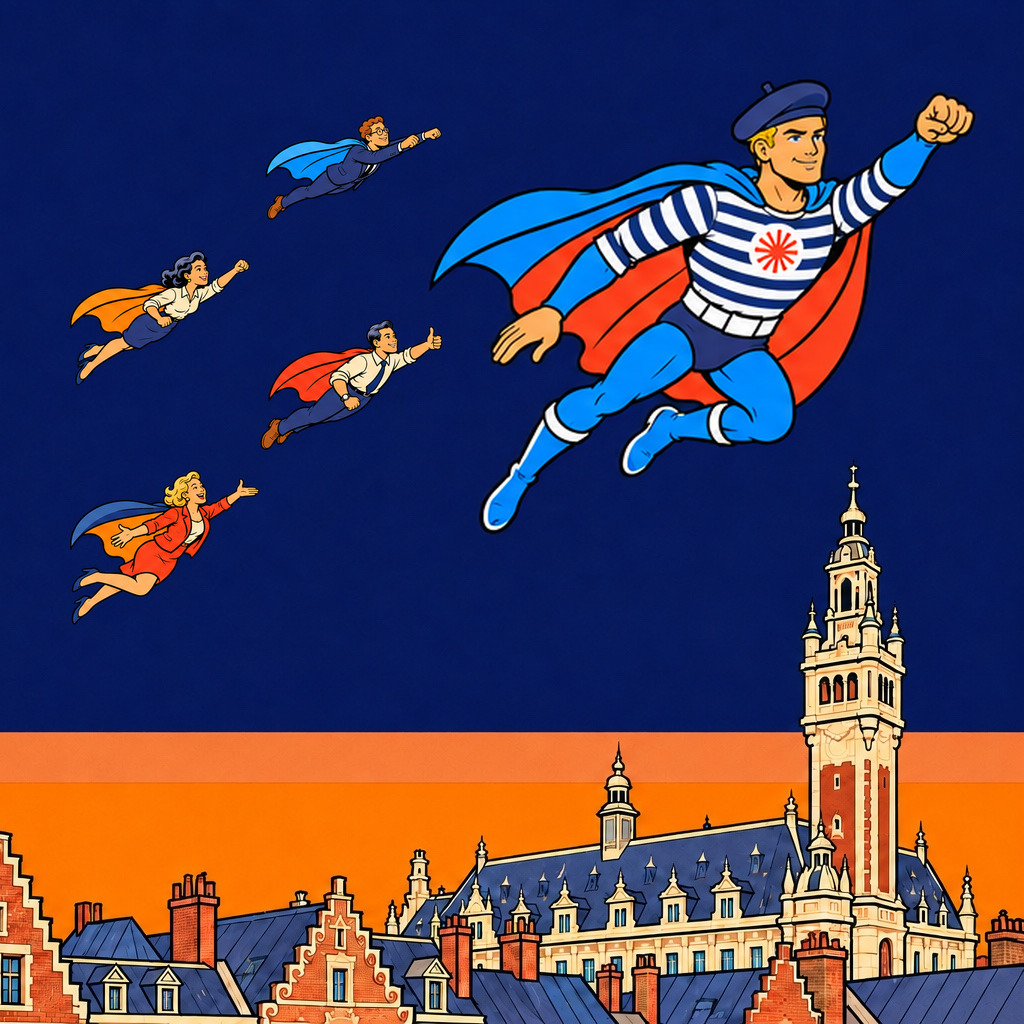
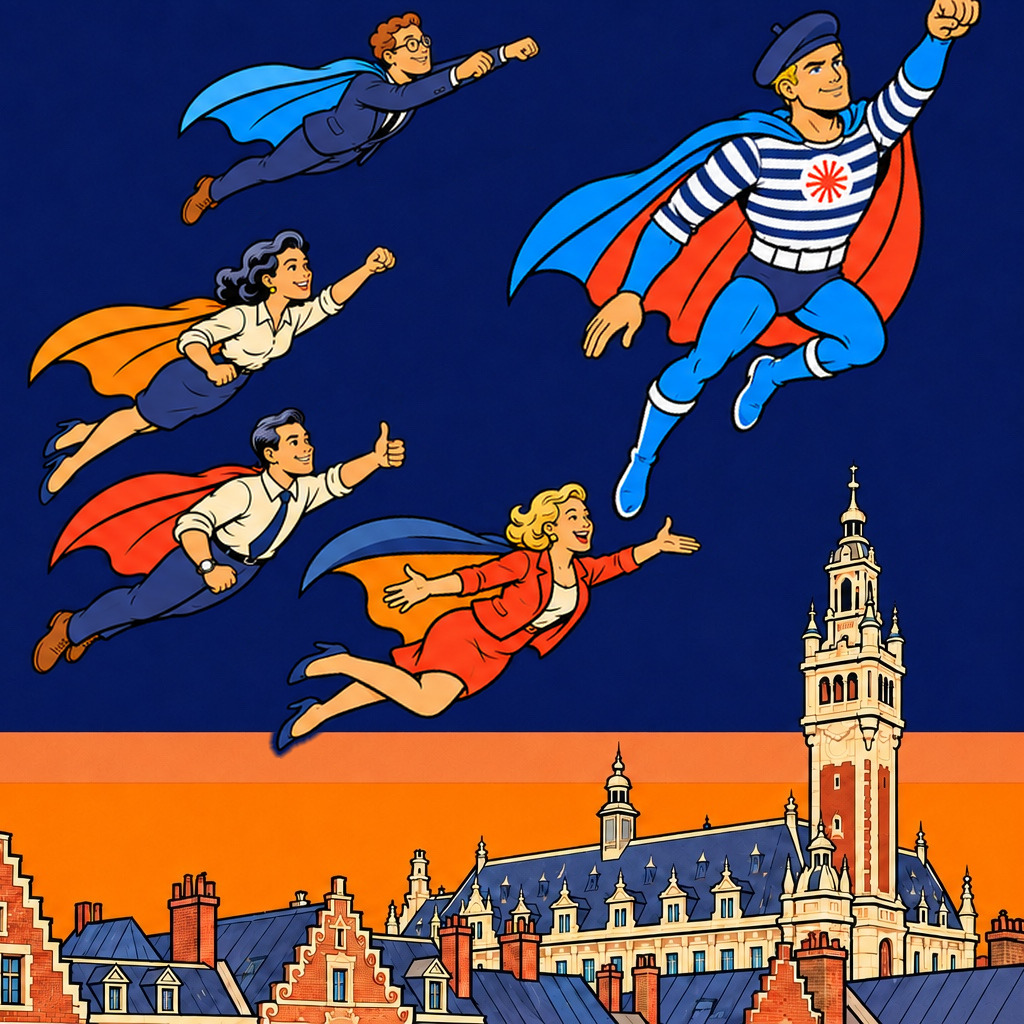
couverture mobile : groupe sur toute la largeur du ciel, Jean-Claude plus grand, son poing sort de la case sur la barre du haut
Claude-Session: https://claude.ai/code/session_01KnhY5nFX9qNSVR9Gp5q498

Changed region(s): [[0.0, 0.0, 0.9688, 0.75]]

diff --git a/components/Hero.tsx b/components/Hero.tsx
@@ -1,14 +1,16 @@
-import { getImageProps } from "next/image";
+import Image, { getImageProps } from "next/image";
 import { site } from "@/content/site";
 import { t } from "@/lib/typo";
 import { Etiquette } from "@/components/ui";
 import volCollectif from "@/images/jc-vol-collectif.jpg";
 import volCollectifMobile from "@/images/jc-vol-collectif-mobile.jpg";
+import poingMobile from "@/images/jc-vol-collectif-mobile-poing.png";
 
 /* Couverture : Jean-Claude et quatre collègues devenus super-héros volent au-dessus de Lille,
    la « performance collective » du titre. Sur ordinateur, le titre tient dans le ciel, à gauche.
-   Sur téléphone, une recomposition carrée (marque/scripts/recompose.py) : Jean-Claude en grand,
-   ses collègues plus petits derrière lui. Le navigateur ne télécharge que l'image de son écran. */
+   Sur téléphone, une recomposition carrée (marque/scripts/recompose.py) : le groupe agrandi sur
+   toute la largeur du ciel, Jean-Claude un peu plus grand, son poing qui sort de la case par-dessus
+   la barre du haut (calque à part). Le navigateur ne télécharge que l'image de son écran. */
 export function Hero() {
   const h = site.hero;
   const commun = { alt: h.image, fill: true, sizes: "100vw" } as const;
@@ -48,6 +50,7 @@ export function Hero() {
           {/* eslint-disable-next-line jsx-a11y/alt-text -- props de getImageProps, alt compris */}
           <img {...mobile} className="hero-img" />
         </picture>
+        <Image src={poingMobile} alt="" sizes="100vw" loading="eager" className="hero-poing" />
       </div>
     </section>
   );

diff --git a/app/globals.css b/app/globals.css
@@ -309,8 +309,10 @@ a {
   font-size: 26px;
   line-height: 1.1;
 }
-/* Mobile : les personnages d'abord, dans l'image carrée recomposée (Jean-Claude en grand) ; la hauteur
-   est bornée pour qu'une tablette en portrait ne voie pas qu'un carré géant. */
+/* Mobile : les personnages d'abord, dans l'image carrée recomposée ; la hauteur est bornée pour
+   qu'une tablette en portrait ne voie pas qu'un carré géant. L'image reste calée en haut (le cadre
+   n'est jamais plus étroit que haut, elle garde donc toute sa largeur) : le calque du poing,
+   posé juste au-dessus et à la même échelle, tombe pile sur la main de Jean-Claude. */
 .hero-image {
   position: relative;
   order: -1;
@@ -318,7 +320,17 @@ a {
 }
 .hero-img {
   object-fit: cover;
-  object-position: 50% 30%;
+  object-position: 50% 0;
+}
+/* Le poing sort de la case : il passe par-dessus la barre du haut (z-index 20). */
+.hero-poing {
+  position: absolute;
+  left: 0;
+  bottom: 100%;
+  width: 100%;
+  height: auto;
+  z-index: 21;
+  pointer-events: none;
 }
 @media (min-width: 900px) {
   /* L'image passe en fond, à bord perdu ; le titre tient dans le ciel, à gauche des personnages. */
@@ -335,6 +347,9 @@ a {
   }
   .hero-img {
     object-position: 50% 40%;
+  }
+  .hero-poing {
+    display: none;
   }
   .hero-contenu {
     flex: 1;
